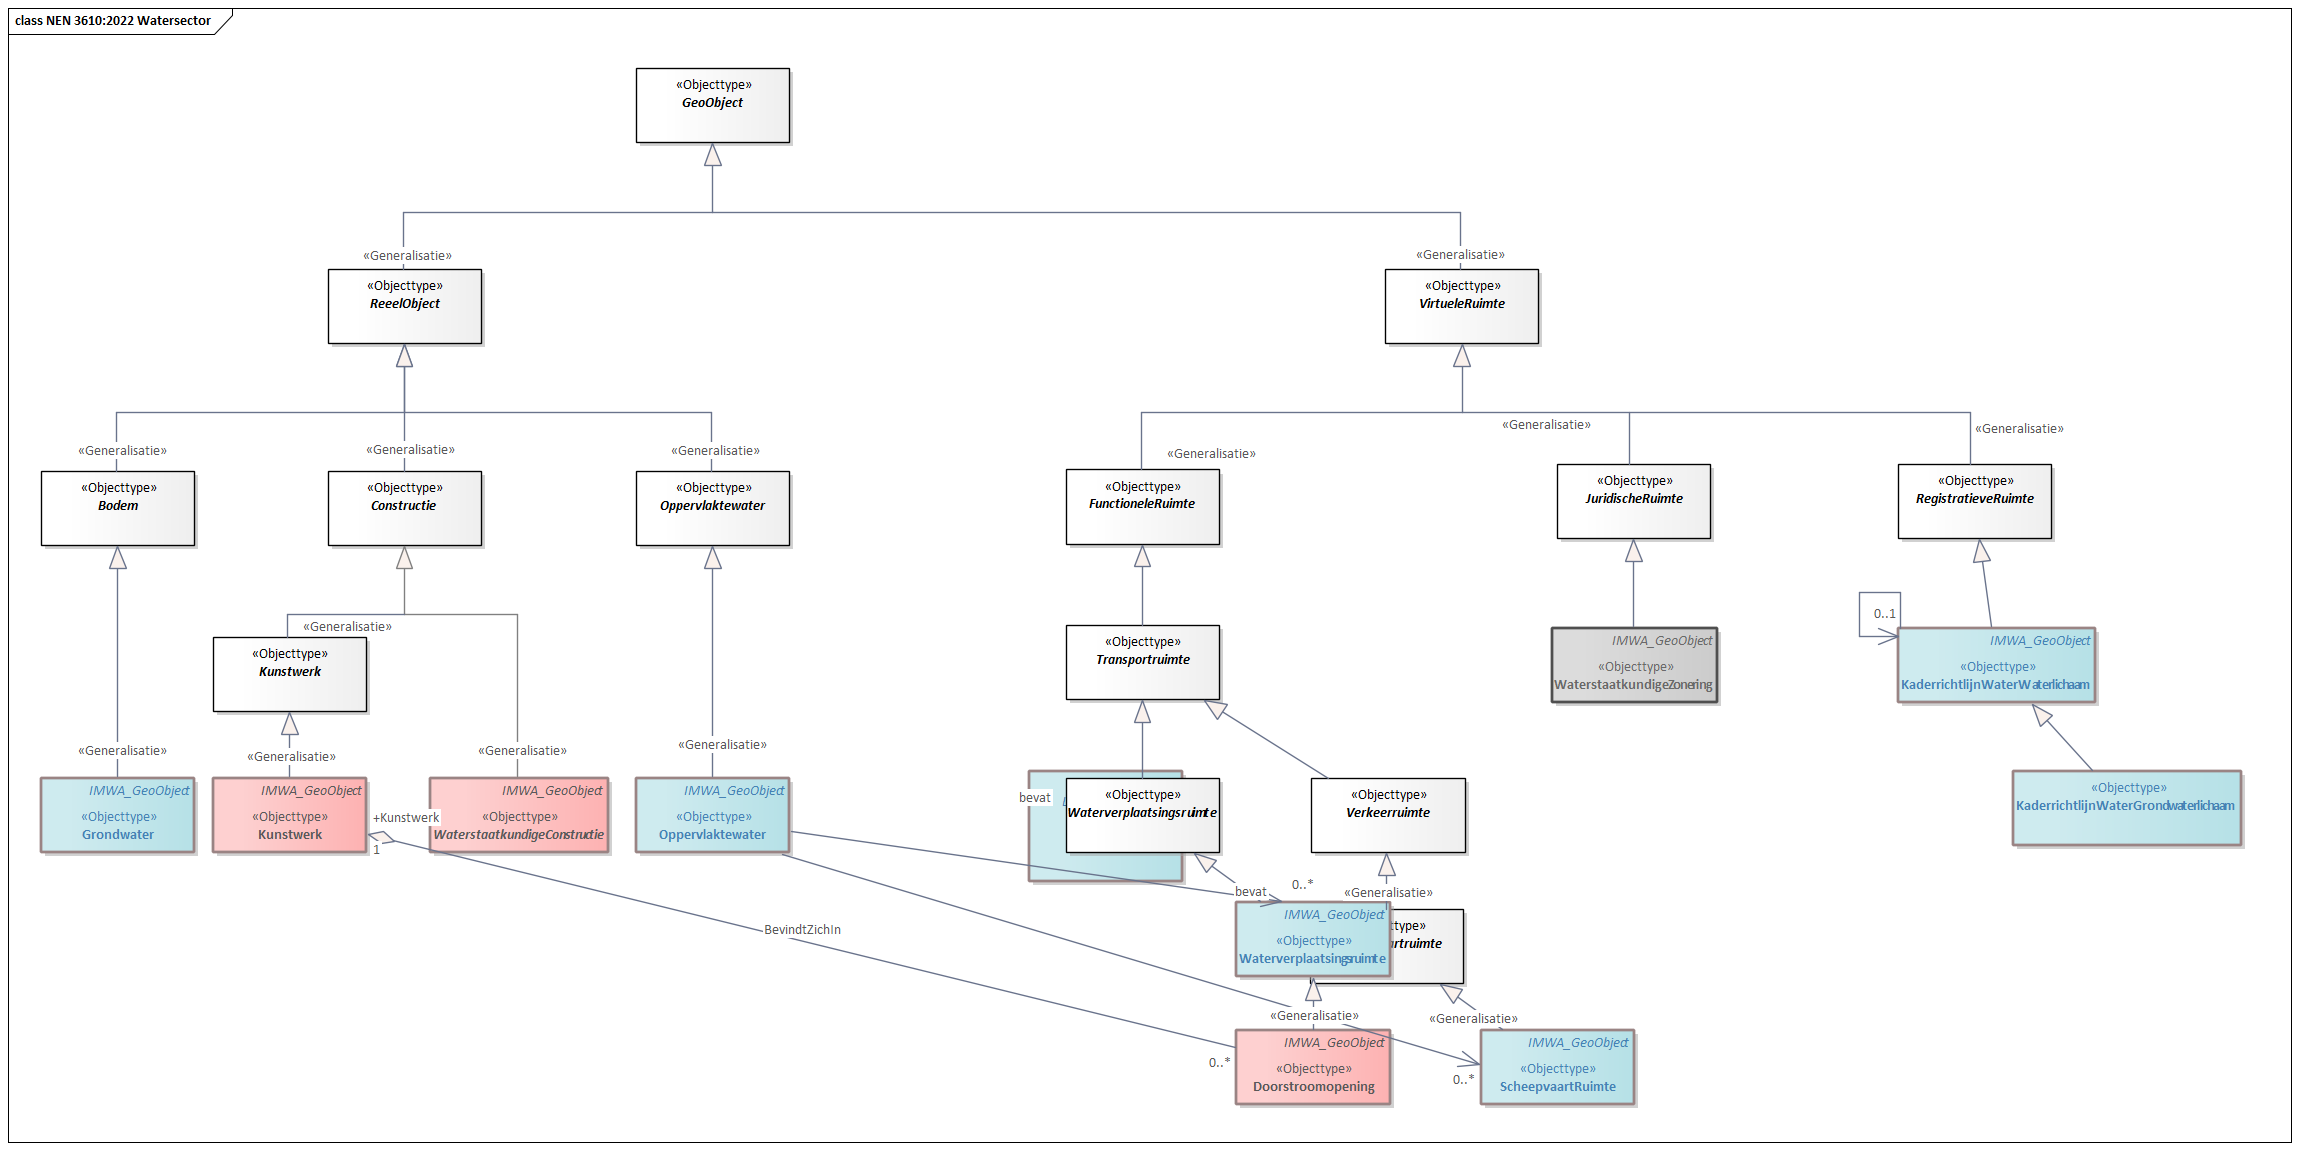
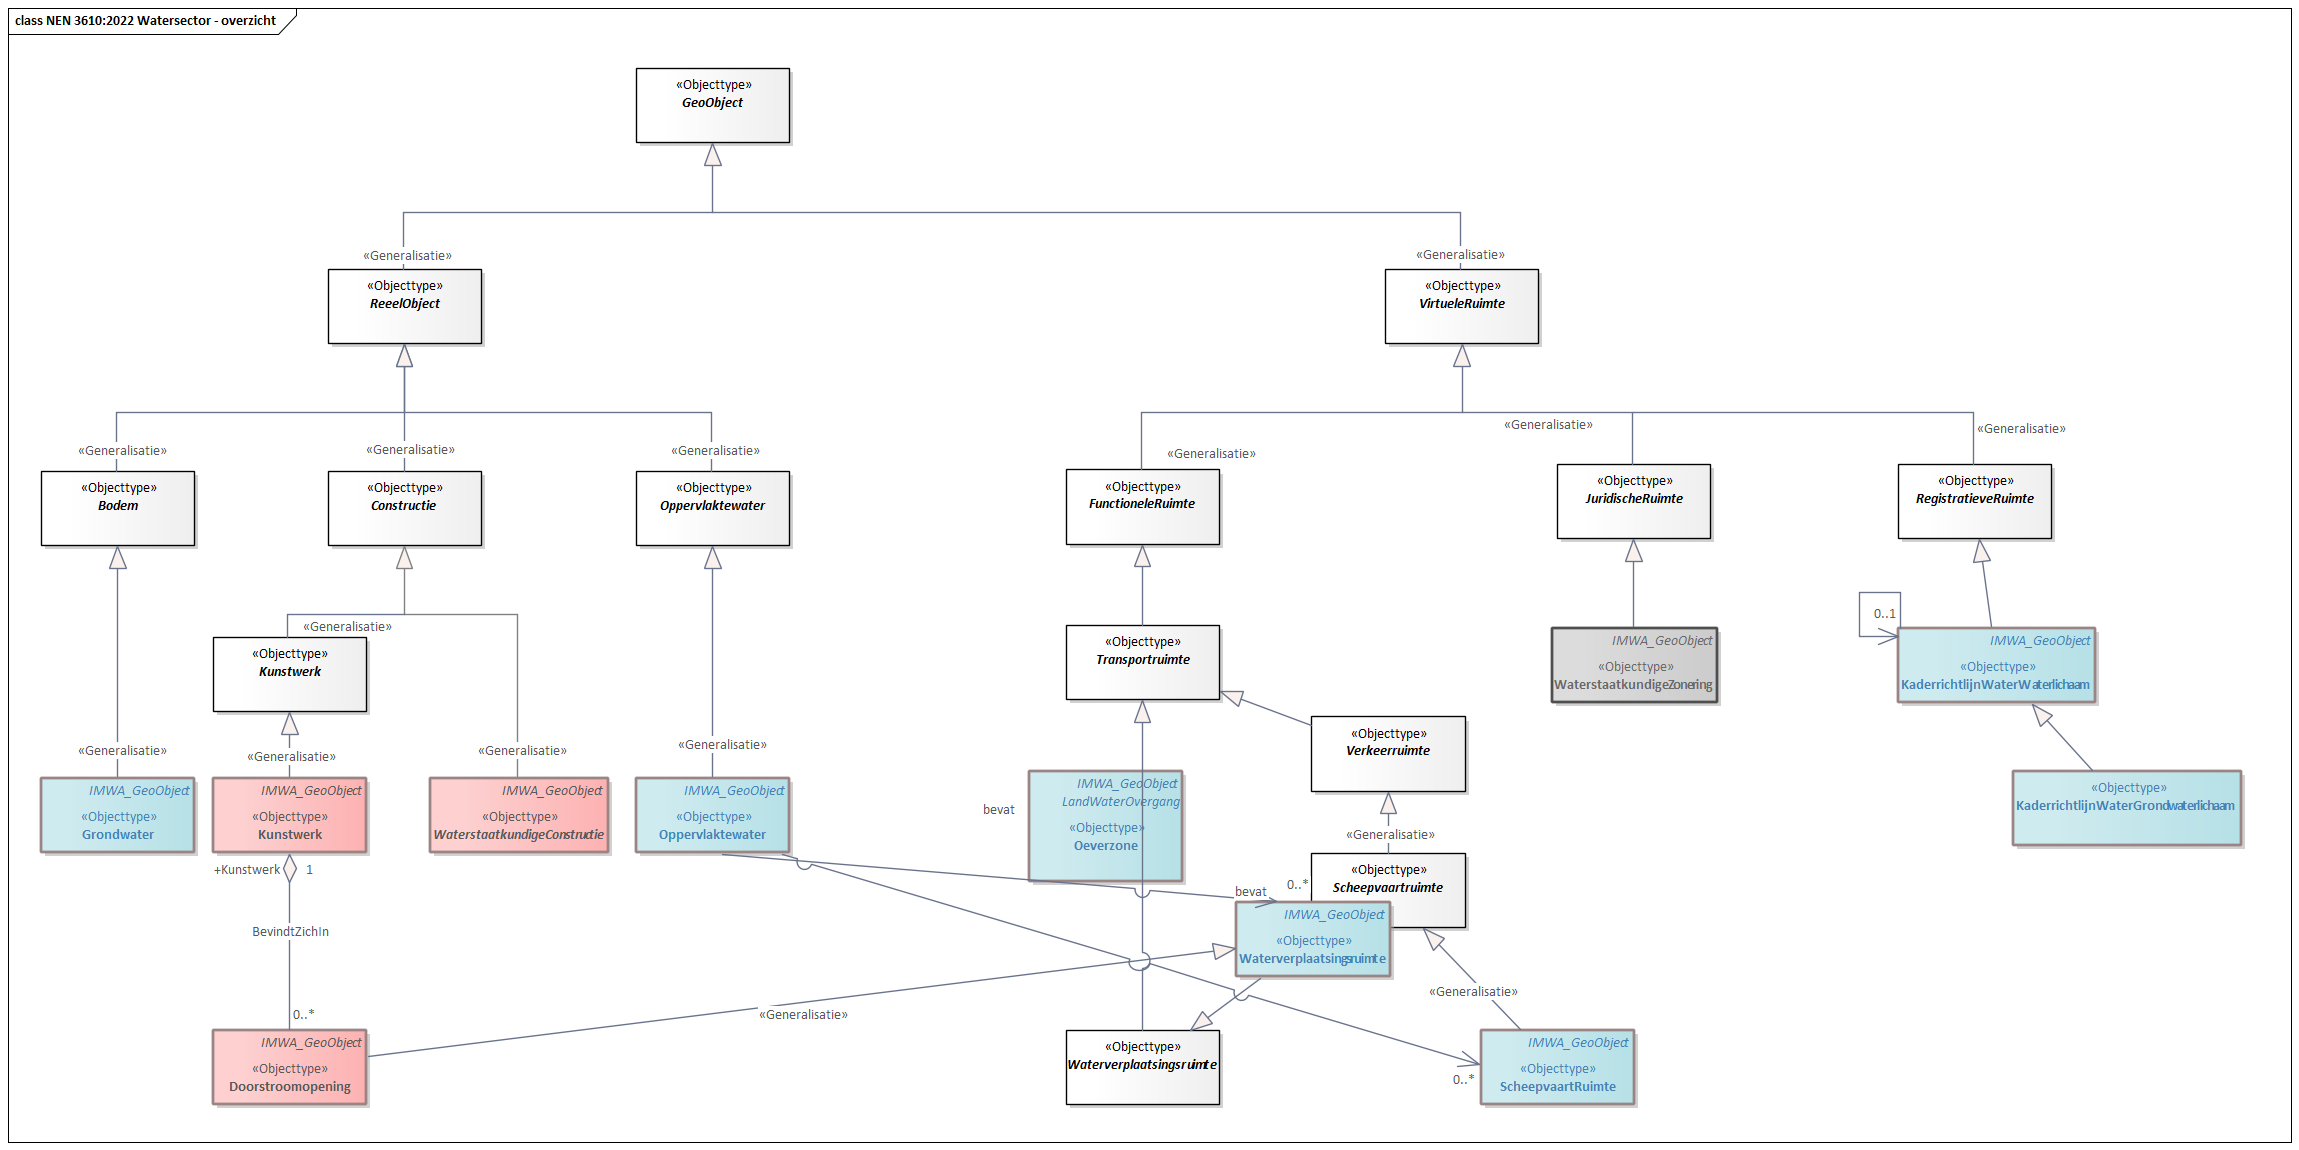
CONCEPTUAL-IMWA2024Basis-1.0-1-20231026-20250123-151232

diff --git a/data/IMWA-basis-cat.respec.full.html b/data/IMWA-basis-cat.respec.full.html
@@ -17,7 +17,7 @@
                             Status van dit document ...HIER INVOEGEN
                         </p></section><section id="prologue" class="informative" level="1"><h1>Proloog</h1><p>
                             Introductie ...HIER INVOEGEN
-                        </p></section><section id="cat" class="normative"><h2>Gegevensdefinitie</h2><p><b>Deze tekst is normatief.</b><!--CONCEPTUAL-IMWA2024Basis-1.0-1-20231026-20250123-145250 imvertor Nightly-build.0--></p><section id="global_packages"><h3>Model   IMWA2024 Basis</h3><div class="imageinfo overview"><img id="EAID_AABA25BE_F8B4_4565_860F_6BB7A2AFB2F4" src="data/Images/EAID_AABA25BE_F8B4_4565_860F_6BB7A2AFB2F4.png" usemap="#imagemap-EAID_AABA25BE_F8B4_4565_860F_6BB7A2AFB2F4" alt="Diagram: Discussiepunten: Nemen we specialisaties op van IMWA_Element in de domeinmodellen watersyteem, waterveiligheid en kunstwerken (zoals KunstwerkElement)? Is bekledingsconstructie (waterveiligheid) een &#34;Verharding (NEN 3610) -&gt; onder &#34;Constructie&#34;? Moet &#34;Kunstwerk&#34; een aggregatie relatie krijgen met oppervlaktewaterlichaam, waterkering en waterbergingsgebied (het 'Waterwet kwartet')?"><map name="imagemap-EAID_AABA25BE_F8B4_4565_860F_6BB7A2AFB2F4"></map><p><b>IMWA 2024 - Bedrijfsobjecten model - overzicht</b>
+                        </p></section><section id="cat" class="normative"><h2>Gegevensdefinitie</h2><p><b>Deze tekst is normatief.</b><!--CONCEPTUAL-IMWA2024Basis-1.0-1-20231026-20250123-151232 imvertor Nightly-build.0--></p><section id="global_packages"><h3>Model   IMWA2024 Basis</h3><div class="imageinfo overview"><img id="EAID_AABA25BE_F8B4_4565_860F_6BB7A2AFB2F4" src="data/Images/EAID_AABA25BE_F8B4_4565_860F_6BB7A2AFB2F4.png" usemap="#imagemap-EAID_AABA25BE_F8B4_4565_860F_6BB7A2AFB2F4" alt="Diagram: Discussiepunten: Nemen we specialisaties op van IMWA_Element in de domeinmodellen watersyteem, waterveiligheid en kunstwerken (zoals KunstwerkElement)? Is bekledingsconstructie (waterveiligheid) een &#34;Verharding (NEN 3610) -&gt; onder &#34;Constructie&#34;? Moet &#34;Kunstwerk&#34; een aggregatie relatie krijgen met oppervlaktewaterlichaam, waterkering en waterbergingsgebied (het 'Waterwet kwartet')?"><map name="imagemap-EAID_AABA25BE_F8B4_4565_860F_6BB7A2AFB2F4"></map><p><b>IMWA 2024 - Bedrijfsobjecten model - overzicht</b>
                         <p>Discussiepunten:</p>
                         <p></p>
                         <ol>
@@ -75,7 +75,9 @@
                         <li>Verbeteren waterkwaliteit</li>
                      </ul>
                   </td></tr><tr><th><a class="link" href="#detail_class_CodelijstenEnDatatypen_WetVerordeningtype">WetVerordeningtype</a></th><td>-</td></tr><tr><th><a class="link" href="#detail_class_CodelijstenEnDatatypen_Waterstaatkundigezonering">Waterstaatkundigezonering</a></th><td>-</td></tr><tr><th><a class="link" href="#detail_class_CodelijstenEnDatatypen_ObjectStatus">ObjectStatus</a></th><td></td></tr><tr><th><a class="link" href="#detail_class_CodelijstenEnDatatypen_Waterbeheerder">Waterbeheerder</a></th><td>-</td></tr><tr><th><a class="link" href="#detail_class_CodelijstenEnDatatypen_Subject_soorten">Subject_soorten</a></th><td>-</td></tr><tr><th><a class="link" href="#detail_class_CodelijstenEnDatatypen_Subject_rollen">Subject_rollen</a></th><td>-</td></tr></tbody></table>
-         </section></section><section id="global_package_IMWABasis"><h3>Domein   IMWA Basis</h3><div class="imageinfo overview"><img id="EAID_22588A4D_2ED5_4312_A3C8_AC82D489A6DA" src="data/Images/EAID_22588A4D_2ED5_4312_A3C8_AC82D489A6DA.png" usemap="#imagemap-EAID_22588A4D_2ED5_4312_A3C8_AC82D489A6DA" alt="Diagram: IMWA Basis 2024 LOD1 - overzicht"><map name="imagemap-EAID_22588A4D_2ED5_4312_A3C8_AC82D489A6DA"><area shape="rect" alt="" coords="1470,521,1707,921" href="#global_class_CodelijstenEnDatatypen_WaterbeheerFunctie"><area shape="rect" alt="RolSubject" coords="610,349,811,459" href="#global_class_IMWABasis_RolSubject"><area shape="rect" alt="WaterbeheerFunctie" coords="1496,142,1688,246" href="#global_class_IMWABasis_WaterbeheerFunctie"><area shape="rect" alt="Beschermingszone" coords="891,834,1073,909" href="#global_class_IMWABasis_Beschermingszone"><area shape="rect" alt="NietNatuurlijkPersoon" coords="581,704,763,779" href="#global_class_IMWABasis_NietNatuurlijkPersoon"><area shape="rect" alt="NatuurlijkPersoon" coords="332,704,513,779" href="#global_class_IMWABasis_NatuurlijkPersoon"><area shape="rect" alt="Subject" coords="457,476,652,598" href="#global_class_IMWABasis_Subject"><area shape="rect" alt="IMWA_Registratie" coords="48,476,266,779" href="#global_class_IMWABasis_IMWA_Registratie"><area shape="rect" alt="IMWA_GeoObject" coords="48,68,1298,323" href="#global_class_IMWABasis_IMWA_GeoObject"><area shape="rect" alt="WaterstaatkundigeZonering" coords="831,475,1133,707" href="#global_class_IMWABasis_WaterstaatkundigeZonering"></map><p><b>IMWA Basis 2024 LOD1 - overzicht</b>
+         </section></section><section id="global_package_IMWABasis"><h3>Domein   IMWA Basis</h3><div class="imageinfo overview"><img id="EAID_191B8673_73FF_4141_96BF_449FD408AB8B" src="data/Images/EAID_191B8673_73FF_4141_96BF_449FD408AB8B.png" usemap="#imagemap-EAID_191B8673_73FF_4141_96BF_449FD408AB8B" alt="Diagram: NEN 3610:2022 Watersector - overzicht"><map name="imagemap-EAID_191B8673_73FF_4141_96BF_449FD408AB8B"><area shape="rect" alt="WaterstaatkundigeZonering" coords="1552,628,1718,703" href="#global_class_IMWABasis_WaterstaatkundigeZonering"></map><p><b>NEN 3610:2022 Watersector - overzicht</b>
+                        <p></p>
+                     </p></div><div class="imageinfo overview"><img id="EAID_22588A4D_2ED5_4312_A3C8_AC82D489A6DA" src="data/Images/EAID_22588A4D_2ED5_4312_A3C8_AC82D489A6DA.png" usemap="#imagemap-EAID_22588A4D_2ED5_4312_A3C8_AC82D489A6DA" alt="Diagram: IMWA Basis 2024 LOD1 - overzicht"><map name="imagemap-EAID_22588A4D_2ED5_4312_A3C8_AC82D489A6DA"><area shape="rect" alt="" coords="1470,521,1707,921" href="#global_class_CodelijstenEnDatatypen_WaterbeheerFunctie"><area shape="rect" alt="RolSubject" coords="610,349,811,459" href="#global_class_IMWABasis_RolSubject"><area shape="rect" alt="WaterbeheerFunctie" coords="1496,142,1688,246" href="#global_class_IMWABasis_WaterbeheerFunctie"><area shape="rect" alt="Beschermingszone" coords="891,834,1073,909" href="#global_class_IMWABasis_Beschermingszone"><area shape="rect" alt="NietNatuurlijkPersoon" coords="581,704,763,779" href="#global_class_IMWABasis_NietNatuurlijkPersoon"><area shape="rect" alt="NatuurlijkPersoon" coords="332,704,513,779" href="#global_class_IMWABasis_NatuurlijkPersoon"><area shape="rect" alt="Subject" coords="457,476,652,598" href="#global_class_IMWABasis_Subject"><area shape="rect" alt="IMWA_Registratie" coords="48,476,266,779" href="#global_class_IMWABasis_IMWA_Registratie"><area shape="rect" alt="IMWA_GeoObject" coords="48,68,1298,323" href="#global_class_IMWABasis_IMWA_GeoObject"><area shape="rect" alt="WaterstaatkundigeZonering" coords="831,475,1133,707" href="#global_class_IMWABasis_WaterstaatkundigeZonering"></map><p><b>IMWA Basis 2024 LOD1 - overzicht</b>
                         <p></p>
                      </p></div><div class="imageinfo "><img id="EAID_29B5C542_6AD1_462c_9E49_C8088F81330D" src="data/Images/EAID_29B5C542_6AD1_462c_9E49_C8088F81330D.png" usemap="#imagemap-EAID_29B5C542_6AD1_462c_9E49_C8088F81330D" alt="Diagram: KunstwerkElement LOD1 - detail"><map name="imagemap-EAID_29B5C542_6AD1_462c_9E49_C8088F81330D"><area shape="rect" alt="IMWA_GeoObject" coords="414,61,778,317" href="#global_class_IMWABasis_IMWA_GeoObject"></map><p><b>KunstwerkElement LOD1 - detail</b>
                         <p></p>
@@ -609,7 +611,7 @@ een natuurlijk dan wel niet-natuurlijk persoon waarvan de waterbeheerder gegeven
                         </td><td>0 .. *</td></tr></tbody></table>
                
             </section>
-         </section></section></section><section id="lis" class="normative"><h2>Inhoud van waardelijsten</h2><p><b>Deze tekst is normatief.</b><!--CONCEPTUAL-IMWA2024Basis-1.0-1-20231026-20250123-145250 imvertor Nightly-build.0--></p><section><h3>Codelijst inhoud   </h3><section id="detail_class_CodelijstenEnDatatypen_WaterbeheerFunctie"><h4>Codelijst details  WaterbeheerFunctie</h4>
+         </section></section></section><section id="lis" class="normative"><h2>Inhoud van waardelijsten</h2><p><b>Deze tekst is normatief.</b><!--CONCEPTUAL-IMWA2024Basis-1.0-1-20231026-20250123-151232 imvertor Nightly-build.0--></p><section><h3>Codelijst inhoud   </h3><section id="detail_class_CodelijstenEnDatatypen_WaterbeheerFunctie"><h4>Codelijst details  WaterbeheerFunctie</h4>
             <table style="width: 100%;" class="list"><colgroup></colgroup><tbody><tr><td>
                      <p>Nieuwe domeintabel. Op te nemen waarden:</p>
                      <ul>

diff --git a/data/IMWA-basis-cat.respec.html b/data/IMWA-basis-cat.respec.html
@@ -1,4 +1,4 @@
-<!DOCTYPE HTML><section id="cat" class="normative"><h2>Gegevensdefinitie</h2><p><b>Deze tekst is normatief.</b><!--CONCEPTUAL-IMWA2024Basis-1.0-1-20231026-20250123-145250 imvertor Nightly-build.0--></p><section id="global_packages"><h3>Model   IMWA2024 Basis</h3><div class="imageinfo overview"><img id="EAID_AABA25BE_F8B4_4565_860F_6BB7A2AFB2F4" src="data/Images/EAID_AABA25BE_F8B4_4565_860F_6BB7A2AFB2F4.png" usemap="#imagemap-EAID_AABA25BE_F8B4_4565_860F_6BB7A2AFB2F4" alt="Diagram: Discussiepunten: Nemen we specialisaties op van IMWA_Element in de domeinmodellen watersyteem, waterveiligheid en kunstwerken (zoals KunstwerkElement)? Is bekledingsconstructie (waterveiligheid) een &#34;Verharding (NEN 3610) -&gt; onder &#34;Constructie&#34;? Moet &#34;Kunstwerk&#34; een aggregatie relatie krijgen met oppervlaktewaterlichaam, waterkering en waterbergingsgebied (het 'Waterwet kwartet')?"><map name="imagemap-EAID_AABA25BE_F8B4_4565_860F_6BB7A2AFB2F4"></map><p><b>IMWA 2024 - Bedrijfsobjecten model - overzicht</b>
+<!DOCTYPE HTML><section id="cat" class="normative"><h2>Gegevensdefinitie</h2><p><b>Deze tekst is normatief.</b><!--CONCEPTUAL-IMWA2024Basis-1.0-1-20231026-20250123-151232 imvertor Nightly-build.0--></p><section id="global_packages"><h3>Model   IMWA2024 Basis</h3><div class="imageinfo overview"><img id="EAID_AABA25BE_F8B4_4565_860F_6BB7A2AFB2F4" src="data/Images/EAID_AABA25BE_F8B4_4565_860F_6BB7A2AFB2F4.png" usemap="#imagemap-EAID_AABA25BE_F8B4_4565_860F_6BB7A2AFB2F4" alt="Diagram: Discussiepunten: Nemen we specialisaties op van IMWA_Element in de domeinmodellen watersyteem, waterveiligheid en kunstwerken (zoals KunstwerkElement)? Is bekledingsconstructie (waterveiligheid) een &#34;Verharding (NEN 3610) -&gt; onder &#34;Constructie&#34;? Moet &#34;Kunstwerk&#34; een aggregatie relatie krijgen met oppervlaktewaterlichaam, waterkering en waterbergingsgebied (het 'Waterwet kwartet')?"><map name="imagemap-EAID_AABA25BE_F8B4_4565_860F_6BB7A2AFB2F4"></map><p><b>IMWA 2024 - Bedrijfsobjecten model - overzicht</b>
                         <p>Discussiepunten:</p>
                         <p></p>
                         <ol>
@@ -56,7 +56,9 @@
                         <li>Verbeteren waterkwaliteit</li>
                      </ul>
                   </td></tr><tr><th><a class="link" href="#detail_class_CodelijstenEnDatatypen_WetVerordeningtype">WetVerordeningtype</a></th><td>-</td></tr><tr><th><a class="link" href="#detail_class_CodelijstenEnDatatypen_Waterstaatkundigezonering">Waterstaatkundigezonering</a></th><td>-</td></tr><tr><th><a class="link" href="#detail_class_CodelijstenEnDatatypen_ObjectStatus">ObjectStatus</a></th><td></td></tr><tr><th><a class="link" href="#detail_class_CodelijstenEnDatatypen_Waterbeheerder">Waterbeheerder</a></th><td>-</td></tr><tr><th><a class="link" href="#detail_class_CodelijstenEnDatatypen_Subject_soorten">Subject_soorten</a></th><td>-</td></tr><tr><th><a class="link" href="#detail_class_CodelijstenEnDatatypen_Subject_rollen">Subject_rollen</a></th><td>-</td></tr></tbody></table>
-         </section></section><section id="global_package_IMWABasis"><h3>Domein   IMWA Basis</h3><div class="imageinfo overview"><img id="EAID_22588A4D_2ED5_4312_A3C8_AC82D489A6DA" src="data/Images/EAID_22588A4D_2ED5_4312_A3C8_AC82D489A6DA.png" usemap="#imagemap-EAID_22588A4D_2ED5_4312_A3C8_AC82D489A6DA" alt="Diagram: IMWA Basis 2024 LOD1 - overzicht"><map name="imagemap-EAID_22588A4D_2ED5_4312_A3C8_AC82D489A6DA"><area shape="rect" alt="" coords="1470,521,1707,921" href="#global_class_CodelijstenEnDatatypen_WaterbeheerFunctie"><area shape="rect" alt="RolSubject" coords="610,349,811,459" href="#global_class_IMWABasis_RolSubject"><area shape="rect" alt="WaterbeheerFunctie" coords="1496,142,1688,246" href="#global_class_IMWABasis_WaterbeheerFunctie"><area shape="rect" alt="Beschermingszone" coords="891,834,1073,909" href="#global_class_IMWABasis_Beschermingszone"><area shape="rect" alt="NietNatuurlijkPersoon" coords="581,704,763,779" href="#global_class_IMWABasis_NietNatuurlijkPersoon"><area shape="rect" alt="NatuurlijkPersoon" coords="332,704,513,779" href="#global_class_IMWABasis_NatuurlijkPersoon"><area shape="rect" alt="Subject" coords="457,476,652,598" href="#global_class_IMWABasis_Subject"><area shape="rect" alt="IMWA_Registratie" coords="48,476,266,779" href="#global_class_IMWABasis_IMWA_Registratie"><area shape="rect" alt="IMWA_GeoObject" coords="48,68,1298,323" href="#global_class_IMWABasis_IMWA_GeoObject"><area shape="rect" alt="WaterstaatkundigeZonering" coords="831,475,1133,707" href="#global_class_IMWABasis_WaterstaatkundigeZonering"></map><p><b>IMWA Basis 2024 LOD1 - overzicht</b>
+         </section></section><section id="global_package_IMWABasis"><h3>Domein   IMWA Basis</h3><div class="imageinfo overview"><img id="EAID_191B8673_73FF_4141_96BF_449FD408AB8B" src="data/Images/EAID_191B8673_73FF_4141_96BF_449FD408AB8B.png" usemap="#imagemap-EAID_191B8673_73FF_4141_96BF_449FD408AB8B" alt="Diagram: NEN 3610:2022 Watersector - overzicht"><map name="imagemap-EAID_191B8673_73FF_4141_96BF_449FD408AB8B"><area shape="rect" alt="WaterstaatkundigeZonering" coords="1552,628,1718,703" href="#global_class_IMWABasis_WaterstaatkundigeZonering"></map><p><b>NEN 3610:2022 Watersector - overzicht</b>
+                        <p></p>
+                     </p></div><div class="imageinfo overview"><img id="EAID_22588A4D_2ED5_4312_A3C8_AC82D489A6DA" src="data/Images/EAID_22588A4D_2ED5_4312_A3C8_AC82D489A6DA.png" usemap="#imagemap-EAID_22588A4D_2ED5_4312_A3C8_AC82D489A6DA" alt="Diagram: IMWA Basis 2024 LOD1 - overzicht"><map name="imagemap-EAID_22588A4D_2ED5_4312_A3C8_AC82D489A6DA"><area shape="rect" alt="" coords="1470,521,1707,921" href="#global_class_CodelijstenEnDatatypen_WaterbeheerFunctie"><area shape="rect" alt="RolSubject" coords="610,349,811,459" href="#global_class_IMWABasis_RolSubject"><area shape="rect" alt="WaterbeheerFunctie" coords="1496,142,1688,246" href="#global_class_IMWABasis_WaterbeheerFunctie"><area shape="rect" alt="Beschermingszone" coords="891,834,1073,909" href="#global_class_IMWABasis_Beschermingszone"><area shape="rect" alt="NietNatuurlijkPersoon" coords="581,704,763,779" href="#global_class_IMWABasis_NietNatuurlijkPersoon"><area shape="rect" alt="NatuurlijkPersoon" coords="332,704,513,779" href="#global_class_IMWABasis_NatuurlijkPersoon"><area shape="rect" alt="Subject" coords="457,476,652,598" href="#global_class_IMWABasis_Subject"><area shape="rect" alt="IMWA_Registratie" coords="48,476,266,779" href="#global_class_IMWABasis_IMWA_Registratie"><area shape="rect" alt="IMWA_GeoObject" coords="48,68,1298,323" href="#global_class_IMWABasis_IMWA_GeoObject"><area shape="rect" alt="WaterstaatkundigeZonering" coords="831,475,1133,707" href="#global_class_IMWABasis_WaterstaatkundigeZonering"></map><p><b>IMWA Basis 2024 LOD1 - overzicht</b>
                         <p></p>
                      </p></div><div class="imageinfo "><img id="EAID_29B5C542_6AD1_462c_9E49_C8088F81330D" src="data/Images/EAID_29B5C542_6AD1_462c_9E49_C8088F81330D.png" usemap="#imagemap-EAID_29B5C542_6AD1_462c_9E49_C8088F81330D" alt="Diagram: KunstwerkElement LOD1 - detail"><map name="imagemap-EAID_29B5C542_6AD1_462c_9E49_C8088F81330D"><area shape="rect" alt="IMWA_GeoObject" coords="414,61,778,317" href="#global_class_IMWABasis_IMWA_GeoObject"></map><p><b>KunstwerkElement LOD1 - detail</b>
                         <p></p>
@@ -590,7 +592,7 @@ een natuurlijk dan wel niet-natuurlijk persoon waarvan de waterbeheerder gegeven
                         </td><td>0 .. *</td></tr></tbody></table>
                
             </section>
-         </section></section></section><section id="lis" class="normative"><h2>Inhoud van waardelijsten</h2><p><b>Deze tekst is normatief.</b><!--CONCEPTUAL-IMWA2024Basis-1.0-1-20231026-20250123-145250 imvertor Nightly-build.0--></p><section><h3>Codelijst inhoud   </h3><section id="detail_class_CodelijstenEnDatatypen_WaterbeheerFunctie"><h4>Codelijst details  WaterbeheerFunctie</h4>
+         </section></section></section><section id="lis" class="normative"><h2>Inhoud van waardelijsten</h2><p><b>Deze tekst is normatief.</b><!--CONCEPTUAL-IMWA2024Basis-1.0-1-20231026-20250123-151232 imvertor Nightly-build.0--></p><section><h3>Codelijst inhoud   </h3><section id="detail_class_CodelijstenEnDatatypen_WaterbeheerFunctie"><h4>Codelijst details  WaterbeheerFunctie</h4>
             <table style="width: 100%;" class="list"><colgroup></colgroup><tbody><tr><td>
                      <p>Nieuwe domeintabel. Op te nemen waarden:</p>
                      <ul>
